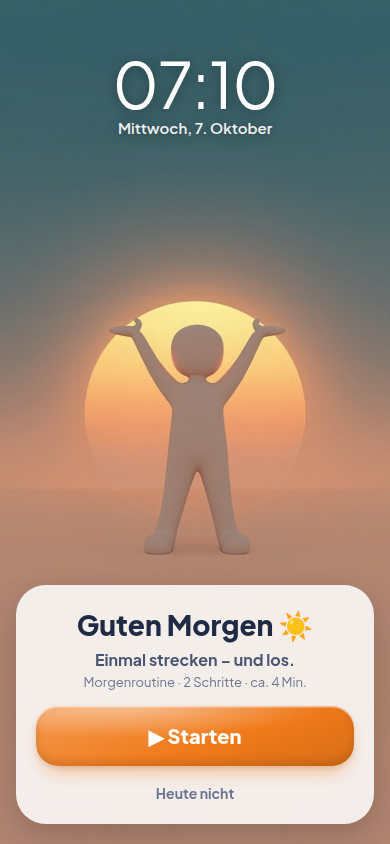
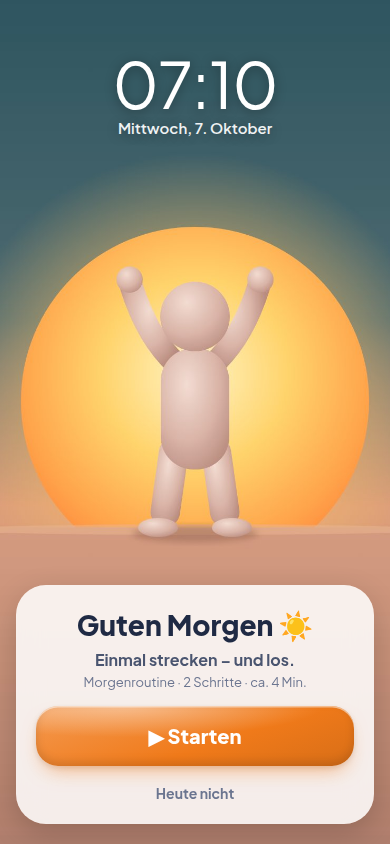
Morgenfenster: eigene Zeichnung mit großer Sonne, Figur steht darin; Sonnen-Symbol mit mehr Abstand der Strahlen
Claude-Session: https://claude.ai/code/session_01Vp2AUrhPBpd2NtdoK1rtDA

diff --git a/src/ui/MorgenStartFenster.jsx b/src/ui/MorgenStartFenster.jsx
@@ -1,5 +1,7 @@
 import React, { useEffect, useState } from "react";
-import bildMorgen from "../assets/fenster/morgen-strecken.jpg";
+// Eigene Zeichnung (06.10.): große Sonne, die Figur steht mittendrin
+// (Nutzerin: „die Sonne soll erheblich größer sein als das Männchen“).
+import bildMorgen from "../assets/fenster/morgen-sonne.jpg";
 import bildAbend from "../assets/fenster/abend-fenster.jpg";
 import { plastikFarbe } from "./plastik";
 import { HEUTE_NICHT_GRUENDE } from "../utils/morgenFenster";
@@ -11,7 +13,7 @@ import { HEUTE_NICHT_GRUENDE } from "../utils/morgenFenster";
 // Abend (06.10. abends, Nutzerin: „solche Bilder auch für die Abendroutine“):
 // gleicher Aufbau, Nachtbild, Leitsatz aus dem AKA-Konzept.
 const ART = {
-  morgen: { bild: bildMorgen, pos: "center 22%", grund: "#3B5F66", titel: "Guten Morgen ☀", satz: "Einmal strecken – und los.", name: "Morgenroutine", farbe: "#F07A1A" },
+  morgen: { bild: bildMorgen, pos: "center 30%", grund: "#3B5F66", titel: "Guten Morgen ☀", satz: "Einmal strecken – und los.", name: "Morgenroutine", farbe: "#F07A1A" },
   abend: { bild: bildAbend, pos: "center 30%", grund: "#1B2550", titel: "Guten Abend 🌙", satz: "Ein guter Morgen beginnt am Abend davor.", name: "Abendroutine", farbe: "#6C5BD4" },
 };
 

diff --git a/src/ui/Icon.jsx b/src/ui/Icon.jsx
@@ -99,9 +99,9 @@ const PATHS = {
   // inkonsistent), symmetrisch um die Mittelachse verteilt.
   sunrise: (
     <>
-      <path d="M6.5 17a5.5 5.5 0 0 1 11 0" />
-      {/* Fünf Strahlen, weiter aufgefächert (06.10., Nutzerin: „vier Striche sehen nackig aus“). */}
-      <path d="M12 9.5V7M16.8 11.3l1.6-1.9M7.2 11.3 5.6 9.4M19.4 15.7l2.4-.4M4.6 15.7l-2.4-.4" />
+      <path d="M7.5 17a4.5 4.5 0 0 1 9 0" />
+      {/* Fünf Strahlen, weiter aufgefächert (06.10., Nutzerin: „vier Striche sehen nackig aus“), mit mehr Abstand zur Sonne. */}
+      <path d="M12 10V7.5M16.5 11.6l1.6-1.9M7.5 11.6 5.9 9.7M18.9 15.8l2.5-.4M5.1 15.8l-2.5-.4" />
       <path d="M2 20.5h20" />
     </>
   ),

diff --git a/src/ui/SchnellIcon.jsx b/src/ui/SchnellIcon.jsx
@@ -83,9 +83,9 @@ const PFADE = {
   ),
   sonnenaufgang: (
     <>
-      <path d="M6 17a6 6 0 0 1 12 0" />
+      <path d="M7.5 17a4.5 4.5 0 0 1 9 0" />
       {/* Fünf Strahlen, weiter aufgefächert (06.10., Nutzerin). */}
-      <path d="M12 9V6.5M17.1 10.9l1.6-1.9M6.9 10.9 5.3 9M19.9 15.6l2.4-.4M4.1 15.6l-2.4-.4M3 20.5h18" />
+      <path d="M12 10V7.5M16.5 11.6l1.6-1.9M7.5 11.6 5.9 9.7M18.9 15.8l2.5-.4M5.1 15.8l-2.5-.4M3 20.5h18" />
     </>
   ),
   mond: <path d="M20 14.5A8 8 0 0 1 9.5 4a8 8 0 1 0 10.5 10.5z" />,

diff --git a/UEBERGABEPROTOKOLL.md b/UEBERGABEPROTOKOLL.md
@@ -54,7 +54,7 @@ Sie selbst hat die App deshalb aus dem Alltag verloren, weil Wecker, Spotify und
 - **Morgenfenster GEBAUT (06.10.):** Die Nutzerin wählte Entwurf **C** („Einmal strecken – und los“, eine
   direkte Aufforderung als Ansporn) für den Start und **D** (AKA-Gehirn in der Sonne) als Abschluss
   „Aufgeladen! ⚡“.
-  - `ui/MorgenStartFenster.jsx`: ganzer Bildschirm, Bild `assets/fenster/morgen-strecken.jpg`, nicht
+  - `ui/MorgenStartFenster.jsx`: ganzer Bildschirm, Bild `assets/fenster/morgen-sonne.jpg` (Vorlage `docs/morgenfenster/morgen-sonne.svg`) (eigene Zeichnung, s. u.), nicht
     wegtippbar. „Starten“ (bzw. „Weitermachen“) öffnet den geführten Ablauf. „Heute nicht“ verlangt einen
     Grund (Chips oder eigene Worte) und vermerkt ihn im Tagesverlauf (`aktion: "heute ausgelassen"`, in
     `ProtokollLogView` TAGESVERLAUF_AKTIONEN).
@@ -78,8 +78,10 @@ Sie selbst hat die App deshalb aus dem Alltag verloren, weil Wecker, Spotify und
     bleibt darunter.
   - **Sonnen-Symbol** (Morgenroutine, `Icon.jsx` „sunrise“ und `SchnellIcon.jsx` „sonnenaufgang“): fünf
     weiter aufgefächerte Strahlen statt vier („vier Striche sehen nackig aus“).
-  - **Offen:** Morgenbild neu mit **größerer Sonne, die Figur steht IN der Sonne**. Canva-Kontingent am
-    06.10. leer, sobald möglich nachziehen (Stil wie `morgen-strecken.jpg`). Ebenso Bilder für Tageslicht,
+  - **Morgenbild neu (06.10. spät):** Die Nutzerin wollte die Sonne erheblich größer als die Figur, die Figur
+    soll IN der Sonne stehen. Canva war leer, deshalb selbst gezeichnet: `assets/fenster/morgen-sonne.jpg` (Vorlage `docs/morgenfenster/morgen-sonne.svg`)
+    (große Sonne, Ton-Figur mit erhobenen Armen). Sonnen-Symbol: mehr Abstand zwischen Strahlen und Sonne.
+    Später ggf. durch ein Canva-Bild ersetzen. **Offen:** Bilder für Tageslicht,
     Schlaf, Atem, Workflow, Tagebuch. Die Nutzerin will Fenster-Bilder für **alle** Bereiche.
 - **Reihenfolge:** zuerst das Morgenfenster, danach die **Matrix ausbauen**. Mit dem Ausbau ist sie
   einverstanden; ein diktierter Halbsatz dazu war unklar, vor dem Bau nachfragen.
